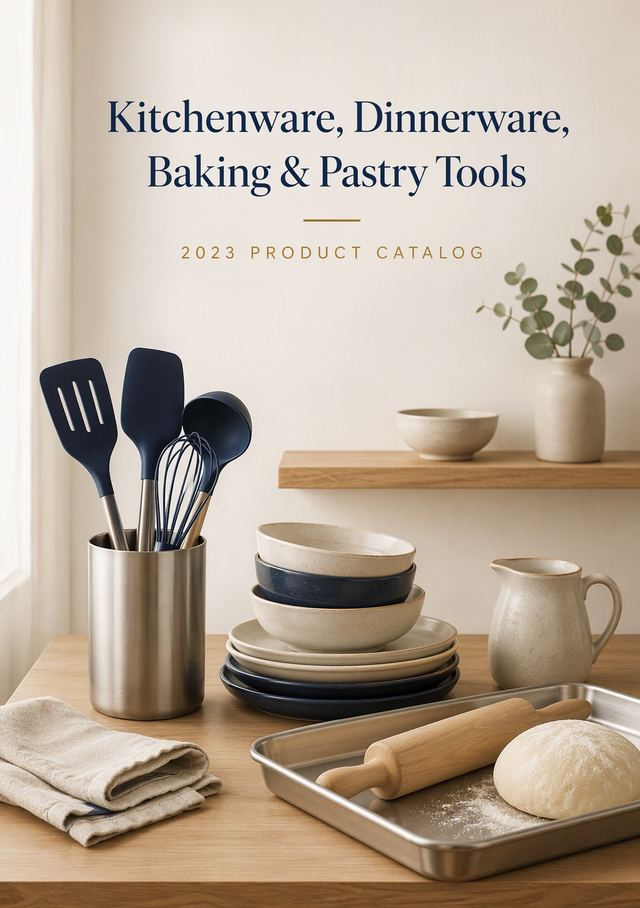
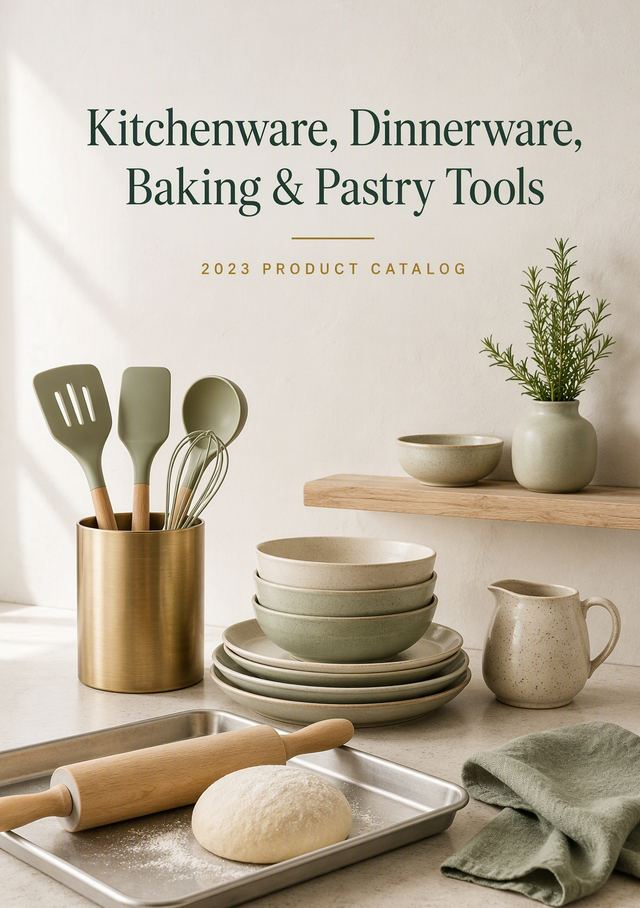
Green 2023 cover, no phantom last page, and a pass over the generated SEO tags
Cover: the 2023 catalog gets a second, green-toned A5 cover (640x908, ratio
0.7047) - same layout family as the 2026 one, sage/forest instead of navy.

Reader: the blank sheet added to complete a two-page spread was being added for
every odd page count, including one-page-per-view layouts. On the 107-page 2023
deck that showed up as an extra blank page at the end. It is now only added when
the layout really is a spread (not a landscape deck, not a phone).

Covers: gen_covers.py now also derives the 400px srcset thumbnail from whatever
cover is in place. They used to be made by hand, so 2023 shipped with a srcset
entry pointing at a 404 - and a failed candidate makes the card run
coverFallback() and download the whole PDF just to draw a thumbnail.

SEO, all found by auditing the 40 sitemap URLs:
  - the homepage carried three <h1> (catalog, Customize, About); the two hidden
    views are now <h2>, styled the same
  - titles ran to 77 characters on 15 pages and descriptions to 252 on all 40;
    both are now clipped on a word boundary (longest title now 55)
  - the categories hub had no og:image

diff --git a/index.html b/index.html
@@ -173,7 +173,7 @@ body { font-family: 'Segoe UI', system-ui, -apple-system, sans-serif; background
 
 /* ===== Customize View ===== */
 .customize-hero { text-align: center; padding: 60px 24px 48px; background: linear-gradient(180deg, #faf9f7 0%, #fff 100%); }
-.customize-hero h1 { font-size: 2.3rem; font-weight: 700; color: #1a1a2e; margin-bottom: 12px; }
+.customize-hero h1, .customize-hero h2 { font-size: 2.3rem; font-weight: 700; color: #1a1a2e; margin-bottom: 12px; }
 .customize-hero p { max-width: 700px; margin: 0 auto; color: #777; line-height: 1.7; font-size: 1rem; }
 .customize-section { max-width: 1100px; margin: 0 auto; padding: 48px 24px; }
 .customize-section h2 { font-size: 1.5rem; font-weight: 700; color: #1a1a2e; margin-bottom: 28px; text-align: center; }
@@ -199,7 +199,7 @@ body { font-family: 'Segoe UI', system-ui, -apple-system, sans-serif; background
 
 /* ===== About View ===== */
 .about-hero { text-align: center; padding: 60px 24px 48px; background: linear-gradient(180deg, #faf9f7 0%, #fff 100%); }
-.about-hero h1 { font-size: 2.3rem; font-weight: 700; color: #1a1a2e; margin-bottom: 12px; }
+.about-hero h1, .about-hero h2 { font-size: 2.3rem; font-weight: 700; color: #1a1a2e; margin-bottom: 12px; }
 .about-hero p { max-width: 720px; margin: 0 auto; color: #777; line-height: 1.7; }
 .about-section { max-width: 1000px; margin: 0 auto; padding: 48px 24px; }
 .about-section h2 { font-size: 1.4rem; font-weight: 700; color: #1a1a2e; margin-bottom: 22px; }
@@ -479,7 +479,7 @@ body { font-family: 'Segoe UI', system-ui, -apple-system, sans-serif; background
 <!-- ===== Customize View ===== -->
 <section id="viewCustomize" class="view">
   <div class="customize-hero">
-    <h1>Customization Service</h1>
+    <h2>Customization Service</h2>
     <p>Full OEM &amp; ODM solutions since 2010. From drawing-based customization to full customization — we turn your idea into shelf-ready products with certified quality.</p>
   </div>
   <!-- Services overview (first) -->
@@ -543,7 +543,7 @@ body { font-family: 'Segoe UI', system-ui, -apple-system, sans-serif; background
 <!-- ===== About View ===== -->
 <section id="viewAbout" class="view">
   <div class="about-hero">
-    <h1>About Yongli</h1>
+    <h2>About Yongli</h2>
     <p>Yongli is a BSCI &amp; ISO 9001 certified manufacturer specializing in OEM &amp; ODM for kitchen wares, promotional gifts and packaging boxes since 2010. Our vision: <strong>Make Globe Trade Easy</strong>.</p>
   </div>
 
@@ -1324,8 +1324,7 @@ async function openReader(ci,targetPage){
     // Lazy reader: instant placeholder shells, pages rendered on demand
     pageDivs=[];pageRendered={};pgBusy={};pgPadIdx=-1;
     for(let i=1;i<=totalPages;i++){const div=document.createElement('div');div.className='pg-shell';pageDivs.push(div)}
-    if(totalPages%2!==0){const bd=document.createElement('div');bd.className='pg-shell pg-pad';bd.dataset.rdy='1';pageDivs.push(bd);pgPadIdx=pageDivs.length-1}
-    const totalItems=pageDivs.length;
+
     // Paint page 1 with the still image the build already rendered, so a catalog
     // shows something the moment it opens instead of a blank sheet while the PDF
     // streams in. The ghost is dropped as soon as the real page is drawn.
@@ -1339,6 +1338,12 @@ async function openReader(ci,targetPage){
     const vp1=(await currentPdf.getPage(1)).getViewport({scale:1});
     const aspect=vp1.width/Math.max(vp1.height,1);
     const wide=aspect>=1.05;
+    // The blank padding sheet only exists to complete a two-page spread. One
+    // page per view (a landscape deck, or any phone) has nothing to complete,
+    // so adding it showed up as an extra blank page at the end of an odd-length
+    // catalog - reported 2026-10-12 against the 107-page 2023 deck.
+    if(!wide&&!isMobile&&totalPages%2!==0){const bd=document.createElement('div');bd.className='pg-shell pg-pad';bd.dataset.rdy='1';pageDivs.push(bd);pgPadIdx=pageDivs.length-1}
+    const totalItems=pageDivs.length;
     bookGeom={wide:wide,aspect:aspect,pageW:0};
     const bookW=wide?(isMobile?Math.max(280,bodyW-24):Math.min(Math.round(bodyW*0.74),1000)):maxPW;
     const bookH=wide?Math.round(bookW/aspect):Math.floor(maxPW/.72);

diff --git a/catalog/kitchen/silicone-food-storage-bag/index.html b/catalog/kitchen/silicone-food-storage-bag/index.html
@@ -3,13 +3,13 @@
 <head>
 <meta charset="UTF-8">
 <meta name="viewport" content="width=device-width, initial-scale=1.0">
-<title>Silicone Food Storage Bag — Wholesale Kitchen Gadgets Manufacturer | Yongli</title>
-<meta name="description" content="Silicone Food Storage Bag wholesale from Yongli — BSCI &amp; ISO 9001 certified OEM/ODM manufacturer of silicone and stainless steel kitchenware since 2010. Full range of 3 catalog pages, custom OEM/ODM welcome.">
+<title>Silicone Food Storage Bag — Kitchen Gadgets | Yongli</title>
+<meta name="description" content="Wholesale Silicone Food Storage Bag from Yongli — BSCI &amp; ISO 9001 certified OEM/ODM manufacturer since 2010. 3 catalogue pages of products, codes and">
 <link rel="canonical" href="https://oemkitchenware.com/catalog/kitchen/silicone-food-storage-bag/">
 <meta property="og:type" content="website">
 <meta property="og:site_name" content="Yongli Kitchenware">
 <meta property="og:title" content="Silicone Food Storage Bag — Yongli Kitchen Gadgets">
-<meta property="og:description" content="Silicone Food Storage Bag wholesale from Yongli — BSCI &amp; ISO 9001 certified OEM/ODM manufacturer of silicone and stainless steel kitchenware since 2010. Full range of 3 catalog pages, custom OEM/ODM welcome.">
+<meta property="og:description" content="Wholesale Silicone Food Storage Bag from Yongli — BSCI &amp; ISO 9001 certified OEM/ODM manufacturer since 2010. 3 catalogue pages of products, codes and">
 <meta property="og:url" content="https://oemkitchenware.com/catalog/kitchen/silicone-food-storage-bag/">
 <meta property="og:image" content="https://oemkitchenware.com/catalog/kitchen/silicone-food-storage-bag/cover.jpg">
 <meta name="twitter:card" content="summary_large_image">
@@ -103,7 +103,7 @@ ul.ticks li::before { content: ''; position: absolute; left: 2px; top: 16px; wid
 <main class="wrap">
   <nav class="crumbs" aria-label="Breadcrumb"><a href='/'>Home</a><a href='/catalog/'>Categories</a><a href='/catalog/kitchen/'>Kitchen Gadgets</a><span>Silicone Food Storage Bag</span></nav>
   <h1>Silicone Food Storage Bag — Kitchen Gadgets</h1>
-  <p class="lede">Silicone Food Storage Bag wholesale from Yongli — BSCI &amp; ISO 9001 certified OEM/ODM manufacturer of silicone and stainless steel kitchenware since 2010. Full range of 3 catalog pages, custom OEM/ODM welcome.</p>
+  <p class="lede">Wholesale Silicone Food Storage Bag from Yongli — BSCI &amp; ISO 9001 certified OEM/ODM manufacturer since 2010. 3 catalogue pages of products, codes and</p>
   <div class="cta-row">
     <a class="cta primary" href="/?catalog=kitchen&page=80">Open in 3D Flip Catalog (3 pages) &rarr;</a>
     <a class="cta whatsapp" href="https://wa.me/8613824296558?text=Hi, I am interested in Silicone Food Storage Bag. Please send me details." target="_blank" rel="noopener">WhatsApp Us</a>

diff --git a/catalog/kitchen/collapsible-travel-cup/index.html b/catalog/kitchen/collapsible-travel-cup/index.html
@@ -3,13 +3,13 @@
 <head>
 <meta charset="UTF-8">
 <meta name="viewport" content="width=device-width, initial-scale=1.0">
-<title>Collapsible Travel Cup — Wholesale Kitchen Gadgets Manufacturer | Yongli</title>
-<meta name="description" content="Collapsible Travel Cup wholesale from Yongli — BSCI &amp; ISO 9001 certified OEM/ODM manufacturer of silicone and stainless steel kitchenware since 2010. Full range of 3 catalog pages, custom OEM/ODM welcome.">
+<title>Collapsible Travel Cup — Kitchen Gadgets | Yongli</title>
+<meta name="description" content="Wholesale Collapsible Travel Cup from Yongli — BSCI &amp; ISO 9001 certified OEM/ODM manufacturer since 2010. 3 catalogue pages of products, codes and materials.">
 <link rel="canonical" href="https://oemkitchenware.com/catalog/kitchen/collapsible-travel-cup/">
 <meta property="og:type" content="website">
 <meta property="og:site_name" content="Yongli Kitchenware">
 <meta property="og:title" content="Collapsible Travel Cup — Yongli Kitchen Gadgets">
-<meta property="og:description" content="Collapsible Travel Cup wholesale from Yongli — BSCI &amp; ISO 9001 certified OEM/ODM manufacturer of silicone and stainless steel kitchenware since 2010. Full range of 3 catalog pages, custom OEM/ODM welcome.">
+<meta property="og:description" content="Wholesale Collapsible Travel Cup from Yongli — BSCI &amp; ISO 9001 certified OEM/ODM manufacturer since 2010. 3 catalogue pages of products, codes and materials.">
 <meta property="og:url" content="https://oemkitchenware.com/catalog/kitchen/collapsible-travel-cup/">
 <meta property="og:image" content="https://oemkitchenware.com/catalog/kitchen/collapsible-travel-cup/cover.jpg">
 <meta name="twitter:card" content="summary_large_image">
@@ -103,7 +103,7 @@ ul.ticks li::before { content: ''; position: absolute; left: 2px; top: 16px; wid
 <main class="wrap">
   <nav class="crumbs" aria-label="Breadcrumb"><a href='/'>Home</a><a href='/catalog/'>Categories</a><a href='/catalog/kitchen/'>Kitchen Gadgets</a><span>Collapsible Travel Cup</span></nav>
   <h1>Collapsible Travel Cup — Kitchen Gadgets</h1>
-  <p class="lede">Collapsible Travel Cup wholesale from Yongli — BSCI &amp; ISO 9001 certified OEM/ODM manufacturer of silicone and stainless steel kitchenware since 2010. Full range of 3 catalog pages, custom OEM/ODM welcome.</p>
+  <p class="lede">Wholesale Collapsible Travel Cup from Yongli — BSCI &amp; ISO 9001 certified OEM/ODM manufacturer since 2010. 3 catalogue pages of products, codes and materials.</p>
   <div class="cta-row">
     <a class="cta primary" href="/?catalog=kitchen&page=83">Open in 3D Flip Catalog (3 pages) &rarr;</a>
     <a class="cta whatsapp" href="https://wa.me/8613824296558?text=Hi, I am interested in Collapsible Travel Cup. Please send me details." target="_blank" rel="noopener">WhatsApp Us</a>

diff --git a/catalog/kitchen/food-storage-container/index.html b/catalog/kitchen/food-storage-container/index.html
@@ -3,13 +3,13 @@
 <head>
 <meta charset="UTF-8">
 <meta name="viewport" content="width=device-width, initial-scale=1.0">
-<title>Food Storage Container — Wholesale Kitchen Gadgets Manufacturer | Yongli</title>
-<meta name="description" content="Food Storage Container wholesale from Yongli — BSCI &amp; ISO 9001 certified OEM/ODM manufacturer of silicone and stainless steel kitchenware since 2010. Full range of 2 catalog pages, custom OEM/ODM welcome.">
+<title>Food Storage Container — Kitchen Gadgets | Yongli</title>
+<meta name="description" content="Wholesale Food Storage Container from Yongli — BSCI &amp; ISO 9001 certified OEM/ODM manufacturer since 2010. 2 catalogue pages of products, codes and materials.">
 <link rel="canonical" href="https://oemkitchenware.com/catalog/kitchen/food-storage-container/">
 <meta property="og:type" content="website">
 <meta property="og:site_name" content="Yongli Kitchenware">
 <meta property="og:title" content="Food Storage Container — Yongli Kitchen Gadgets">
-<meta property="og:description" content="Food Storage Container wholesale from Yongli — BSCI &amp; ISO 9001 certified OEM/ODM manufacturer of silicone and stainless steel kitchenware since 2010. Full range of 2 catalog pages, custom OEM/ODM welcome.">
+<meta property="og:description" content="Wholesale Food Storage Container from Yongli — BSCI &amp; ISO 9001 certified OEM/ODM manufacturer since 2010. 2 catalogue pages of products, codes and materials.">
 <meta property="og:url" content="https://oemkitchenware.com/catalog/kitchen/food-storage-container/">
 <meta property="og:image" content="https://oemkitchenware.com/catalog/kitchen/food-storage-container/cover.jpg">
 <meta name="twitter:card" content="summary_large_image">
@@ -103,7 +103,7 @@ ul.ticks li::before { content: ''; position: absolute; left: 2px; top: 16px; wid
 <main class="wrap">
   <nav class="crumbs" aria-label="Breadcrumb"><a href='/'>Home</a><a href='/catalog/'>Categories</a><a href='/catalog/kitchen/'>Kitchen Gadgets</a><span>Food Storage Container</span></nav>
   <h1>Food Storage Container — Kitchen Gadgets</h1>
-  <p class="lede">Food Storage Container wholesale from Yongli — BSCI &amp; ISO 9001 certified OEM/ODM manufacturer of silicone and stainless steel kitchenware since 2010. Full range of 2 catalog pages, custom OEM/ODM welcome.</p>
+  <p class="lede">Wholesale Food Storage Container from Yongli — BSCI &amp; ISO 9001 certified OEM/ODM manufacturer since 2010. 2 catalogue pages of products, codes and materials.</p>
   <div class="cta-row">
     <a class="cta primary" href="/?catalog=kitchen&page=69">Open in 3D Flip Catalog (2 pages) &rarr;</a>
     <a class="cta whatsapp" href="https://wa.me/8613824296558?text=Hi, I am interested in Food Storage Container. Please send me details." target="_blank" rel="noopener">WhatsApp Us</a>

diff --git a/catalog/kitchen/collapsible-food-storage/index.html b/catalog/kitchen/collapsible-food-storage/index.html
@@ -3,13 +3,13 @@
 <head>
 <meta charset="UTF-8">
 <meta name="viewport" content="width=device-width, initial-scale=1.0">
-<title>Collapsible Food Storage — Wholesale Kitchen Gadgets Manufacturer | Yongli</title>
-<meta name="description" content="Collapsible Food Storage wholesale from Yongli — BSCI &amp; ISO 9001 certified OEM/ODM manufacturer of silicone and stainless steel kitchenware since 2010. Full range of 3 catalog pages, custom OEM/ODM welcome.">
+<title>Collapsible Food Storage — Kitchen Gadgets | Yongli</title>
+<meta name="description" content="Wholesale Collapsible Food Storage from Yongli — BSCI &amp; ISO 9001 certified OEM/ODM manufacturer since 2010. 3 catalogue pages of products, codes and">
 <link rel="canonical" href="https://oemkitchenware.com/catalog/kitchen/collapsible-food-storage/">
 <meta property="og:type" content="website">
 <meta property="og:site_name" content="Yongli Kitchenware">
 <meta property="og:title" content="Collapsible Food Storage — Yongli Kitchen Gadgets">
-<meta property="og:description" content="Collapsible Food Storage wholesale from Yongli — BSCI &amp; ISO 9001 certified OEM/ODM manufacturer of silicone and stainless steel kitchenware since 2010. Full range of 3 catalog pages, custom OEM/ODM welcome.">
+<meta property="og:description" content="Wholesale Collapsible Food Storage from Yongli — BSCI &amp; ISO 9001 certified OEM/ODM manufacturer since 2010. 3 catalogue pages of products, codes and">
 <meta property="og:url" content="https://oemkitchenware.com/catalog/kitchen/collapsible-food-storage/">
 <meta property="og:image" content="https://oemkitchenware.com/catalog/kitchen/collapsible-food-storage/cover.jpg">
 <meta name="twitter:card" content="summary_large_image">
@@ -103,7 +103,7 @@ ul.ticks li::before { content: ''; position: absolute; left: 2px; top: 16px; wid
 <main class="wrap">
   <nav class="crumbs" aria-label="Breadcrumb"><a href='/'>Home</a><a href='/catalog/'>Categories</a><a href='/catalog/kitchen/'>Kitchen Gadgets</a><span>Collapsible Food Storage</span></nav>
   <h1>Collapsible Food Storage — Kitchen Gadgets</h1>
-  <p class="lede">Collapsible Food Storage wholesale from Yongli — BSCI &amp; ISO 9001 certified OEM/ODM manufacturer of silicone and stainless steel kitchenware since 2010. Full range of 3 catalog pages, custom OEM/ODM welcome.</p>
+  <p class="lede">Wholesale Collapsible Food Storage from Yongli — BSCI &amp; ISO 9001 certified OEM/ODM manufacturer since 2010. 3 catalogue pages of products, codes and</p>
   <div class="cta-row">
     <a class="cta primary" href="/?catalog=kitchen&page=66">Open in 3D Flip Catalog (3 pages) &rarr;</a>
     <a class="cta whatsapp" href="https://wa.me/8613824296558?text=Hi, I am interested in Collapsible Food Storage. Please send me details." target="_blank" rel="noopener">WhatsApp Us</a>

diff --git a/catalog/kitchen/sourdough-starter-kit/index.html b/catalog/kitchen/sourdough-starter-kit/index.html
@@ -3,13 +3,13 @@
 <head>
 <meta charset="UTF-8">
 <meta name="viewport" content="width=device-width, initial-scale=1.0">
-<title>Sourdough Starter Kit — Wholesale Kitchen Gadgets Manufacturer | Yongli</title>
-<meta name="description" content="Sourdough Starter Kit wholesale from Yongli — BSCI &amp; ISO 9001 certified OEM/ODM manufacturer of silicone and stainless steel kitchenware since 2010. Full range of 12 catalog pages, custom OEM/ODM welcome.">
+<title>Sourdough Starter Kit — Kitchen Gadgets | Yongli</title>
+<meta name="description" content="Wholesale Sourdough Starter Kit from Yongli — BSCI &amp; ISO 9001 certified OEM/ODM manufacturer since 2010. 12 catalogue pages of products, codes and materials.">
 <link rel="canonical" href="https://oemkitchenware.com/catalog/kitchen/sourdough-starter-kit/">
 <meta property="og:type" content="website">
 <meta property="og:site_name" content="Yongli Kitchenware">
 <meta property="og:title" content="Sourdough Starter Kit — Yongli Kitchen Gadgets">
-<meta property="og:description" content="Sourdough Starter Kit wholesale from Yongli — BSCI &amp; ISO 9001 certified OEM/ODM manufacturer of silicone and stainless steel kitchenware since 2010. Full range of 12 catalog pages, custom OEM/ODM welcome.">
+<meta property="og:description" content="Wholesale Sourdough Starter Kit from Yongli — BSCI &amp; ISO 9001 certified OEM/ODM manufacturer since 2010. 12 catalogue pages of products, codes and materials.">
 <meta property="og:url" content="https://oemkitchenware.com/catalog/kitchen/sourdough-starter-kit/">
 <meta property="og:image" content="https://oemkitchenware.com/catalog/kitchen/sourdough-starter-kit/cover.jpg">
 <meta name="twitter:card" content="summary_large_image">
@@ -103,7 +103,7 @@ ul.ticks li::before { content: ''; position: absolute; left: 2px; top: 16px; wid
 <main class="wrap">
   <nav class="crumbs" aria-label="Breadcrumb"><a href='/'>Home</a><a href='/catalog/'>Categories</a><a href='/catalog/kitchen/'>Kitchen Gadgets</a><span>Sourdough Starter Kit</span></nav>
   <h1>Sourdough Starter Kit — Kitchen Gadgets</h1>
-  <p class="lede">Sourdough Starter Kit wholesale from Yongli — BSCI &amp; ISO 9001 certified OEM/ODM manufacturer of silicone and stainless steel kitchenware since 2010. Full range of 12 catalog pages, custom OEM/ODM welcome.</p>
+  <p class="lede">Wholesale Sourdough Starter Kit from Yongli — BSCI &amp; ISO 9001 certified OEM/ODM manufacturer since 2010. 12 catalogue pages of products, codes and materials.</p>
   <div class="cta-row">
     <a class="cta primary" href="/?catalog=kitchen&page=144">Open in 3D Flip Catalog (12 pages) &rarr;</a>
     <a class="cta whatsapp" href="https://wa.me/8613824296558?text=Hi, I am interested in Sourdough Starter Kit. Please send me details." target="_blank" rel="noopener">WhatsApp Us</a>

diff --git a/catalog/kitchen/stainless-steel-tumbler/index.html b/catalog/kitchen/stainless-steel-tumbler/index.html
@@ -3,13 +3,13 @@
 <head>
 <meta charset="UTF-8">
 <meta name="viewport" content="width=device-width, initial-scale=1.0">
-<title>Stainless Steel Tumbler — Wholesale Kitchen Gadgets Manufacturer | Yongli</title>
-<meta name="description" content="Stainless Steel Tumbler wholesale from Yongli — BSCI &amp; ISO 9001 certified OEM/ODM manufacturer of silicone and stainless steel kitchenware since 2010. Full range of 13 catalog pages, custom OEM/ODM welcome.">
+<title>Stainless Steel Tumbler — Kitchen Gadgets | Yongli</title>
+<meta name="description" content="Wholesale Stainless Steel Tumbler from Yongli — BSCI &amp; ISO 9001 certified OEM/ODM manufacturer since 2010. 13 catalogue pages of products, codes and">
 <link rel="canonical" href="https://oemkitchenware.com/catalog/kitchen/stainless-steel-tumbler/">
 <meta property="og:type" content="website">
 <meta property="og:site_name" content="Yongli Kitchenware">
 <meta property="og:title" content="Stainless Steel Tumbler — Yongli Kitchen Gadgets">
-<meta property="og:description" content="Stainless Steel Tumbler wholesale from Yongli — BSCI &amp; ISO 9001 certified OEM/ODM manufacturer of silicone and stainless steel kitchenware since 2010. Full range of 13 catalog pages, custom OEM/ODM welcome.">
+<meta property="og:description" content="Wholesale Stainless Steel Tumbler from Yongli — BSCI &amp; ISO 9001 certified OEM/ODM manufacturer since 2010. 13 catalogue pages of products, codes and">
 <meta property="og:url" content="https://oemkitchenware.com/catalog/kitchen/stainless-steel-tumbler/">
 <meta property="og:image" content="https://oemkitchenware.com/catalog/kitchen/stainless-steel-tumbler/cover.jpg">
 <meta name="twitter:card" content="summary_large_image">
@@ -103,7 +103,7 @@ ul.ticks li::before { content: ''; position: absolute; left: 2px; top: 16px; wid
 <main class="wrap">
   <nav class="crumbs" aria-label="Breadcrumb"><a href='/'>Home</a><a href='/catalog/'>Categories</a><a href='/catalog/kitchen/'>Kitchen Gadgets</a><span>Stainless Steel Tumbler</span></nav>
   <h1>Stainless Steel Tumbler — Kitchen Gadgets</h1>
-  <p class="lede">Stainless Steel Tumbler wholesale from Yongli — BSCI &amp; ISO 9001 certified OEM/ODM manufacturer of silicone and stainless steel kitchenware since 2010. Full range of 13 catalog pages, custom OEM/ODM welcome.</p>
+  <p class="lede">Wholesale Stainless Steel Tumbler from Yongli — BSCI &amp; ISO 9001 certified OEM/ODM manufacturer since 2010. 13 catalogue pages of products, codes and</p>
   <div class="cta-row">
     <a class="cta primary" href="/?catalog=kitchen&page=86">Open in 3D Flip Catalog (13 pages) &rarr;</a>
     <a class="cta whatsapp" href="https://wa.me/8613824296558?text=Hi, I am interested in Stainless Steel Tumbler. Please send me details." target="_blank" rel="noopener">WhatsApp Us</a>

diff --git a/catalog/kitchen/bbq-grill-accessories/index.html b/catalog/kitchen/bbq-grill-accessories/index.html
@@ -3,13 +3,13 @@
 <head>
 <meta charset="UTF-8">
 <meta name="viewport" content="width=device-width, initial-scale=1.0">
-<title>BBQ Grill Accessories — Wholesale Kitchen Gadgets Manufacturer | Yongli</title>
-<meta name="description" content="BBQ Grill Accessories wholesale from Yongli — BSCI &amp; ISO 9001 certified OEM/ODM manufacturer of silicone and stainless steel kitchenware since 2010. Full range of 9 catalog pages, custom OEM/ODM welcome.">
+<title>BBQ Grill Accessories — Kitchen Gadgets | Yongli</title>
+<meta name="description" content="Wholesale BBQ Grill Accessories from Yongli — BSCI &amp; ISO 9001 certified OEM/ODM manufacturer since 2010. 9 catalogue pages of products, codes and materials.">
 <link rel="canonical" href="https://oemkitchenware.com/catalog/kitchen/bbq-grill-accessories/">
 <meta property="og:type" content="website">
 <meta property="og:site_name" content="Yongli Kitchenware">
 <meta property="og:title" content="BBQ Grill Accessories — Yongli Kitchen Gadgets">
-<meta property="og:description" content="BBQ Grill Accessories wholesale from Yongli — BSCI &amp; ISO 9001 certified OEM/ODM manufacturer of silicone and stainless steel kitchenware since 2010. Full range of 9 catalog pages, custom OEM/ODM welcome.">
+<meta property="og:description" content="Wholesale BBQ Grill Accessories from Yongli — BSCI &amp; ISO 9001 certified OEM/ODM manufacturer since 2010. 9 catalogue pages of products, codes and materials.">
 <meta property="og:url" content="https://oemkitchenware.com/catalog/kitchen/bbq-grill-accessories/">
 <meta property="og:image" content="https://oemkitchenware.com/catalog/kitchen/bbq-grill-accessories/cover.jpg">
 <meta name="twitter:card" content="summary_large_image">
@@ -103,7 +103,7 @@ ul.ticks li::before { content: ''; position: absolute; left: 2px; top: 16px; wid
 <main class="wrap">
   <nav class="crumbs" aria-label="Breadcrumb"><a href='/'>Home</a><a href='/catalog/'>Categories</a><a href='/catalog/kitchen/'>Kitchen Gadgets</a><span>BBQ Grill Accessories</span></nav>
   <h1>BBQ Grill Accessories — Kitchen Gadgets</h1>
-  <p class="lede">BBQ Grill Accessories wholesale from Yongli — BSCI &amp; ISO 9001 certified OEM/ODM manufacturer of silicone and stainless steel kitchenware since 2010. Full range of 9 catalog pages, custom OEM/ODM welcome.</p>
+  <p class="lede">Wholesale BBQ Grill Accessories from Yongli — BSCI &amp; ISO 9001 certified OEM/ODM manufacturer since 2010. 9 catalogue pages of products, codes and materials.</p>
   <div class="cta-row">
     <a class="cta primary" href="/?catalog=kitchen&page=99">Open in 3D Flip Catalog (9 pages) &rarr;</a>
     <a class="cta whatsapp" href="https://wa.me/8613824296558?text=Hi, I am interested in BBQ Grill Accessories. Please send me details." target="_blank" rel="noopener">WhatsApp Us</a>

diff --git a/catalog/ladies/silicone-cupping-therapy/index.html b/catalog/ladies/silicone-cupping-therapy/index.html
@@ -3,13 +3,13 @@
 <head>
 <meta charset="UTF-8">
 <meta name="viewport" content="width=device-width, initial-scale=1.0">
-<title>Silicone Cupping Therapy — Wholesale Ladies' Appliances Manufacturer | Yongli</title>
-<meta name="description" content="Silicone Cupping Therapy wholesale from Yongli — BSCI &amp; ISO 9001 certified OEM/ODM manufacturer of personal care and beauty devices since 2010. Full range of 2 catalog pages, custom OEM/ODM welcome.">
+<title>Silicone Cupping Therapy — Ladies' Appliances | Yongli</title>
+<meta name="description" content="Wholesale Silicone Cupping Therapy from Yongli — BSCI &amp; ISO 9001 certified OEM/ODM manufacturer since 2010. 2 catalogue pages of products, codes and">
 <link rel="canonical" href="https://oemkitchenware.com/catalog/ladies/silicone-cupping-therapy/">
 <meta property="og:type" content="website">
 <meta property="og:site_name" content="Yongli Kitchenware">
 <meta property="og:title" content="Silicone Cupping Therapy — Yongli Ladies' Appliances">
-<meta property="og:description" content="Silicone Cupping Therapy wholesale from Yongli — BSCI &amp; ISO 9001 certified OEM/ODM manufacturer of personal care and beauty devices since 2010. Full range of 2 catalog pages, custom OEM/ODM welcome.">
+<meta property="og:description" content="Wholesale Silicone Cupping Therapy from Yongli — BSCI &amp; ISO 9001 certified OEM/ODM manufacturer since 2010. 2 catalogue pages of products, codes and">
 <meta property="og:url" content="https://oemkitchenware.com/catalog/ladies/silicone-cupping-therapy/">
 <meta property="og:image" content="https://oemkitchenware.com/catalog/ladies/silicone-cupping-therapy/cover.jpg">
 <meta name="twitter:card" content="summary_large_image">
@@ -103,7 +103,7 @@ ul.ticks li::before { content: ''; position: absolute; left: 2px; top: 16px; wid
 <main class="wrap">
   <nav class="crumbs" aria-label="Breadcrumb"><a href='/'>Home</a><a href='/catalog/'>Categories</a><a href='/catalog/ladies/'>Ladies' Appliances</a><span>Silicone Cupping Therapy</span></nav>
   <h1>Silicone Cupping Therapy — Ladies' Appliances</h1>
-  <p class="lede">Silicone Cupping Therapy wholesale from Yongli — BSCI &amp; ISO 9001 certified OEM/ODM manufacturer of personal care and beauty devices since 2010. Full range of 2 catalog pages, custom OEM/ODM welcome.</p>
+  <p class="lede">Wholesale Silicone Cupping Therapy from Yongli — BSCI &amp; ISO 9001 certified OEM/ODM manufacturer since 2010. 2 catalogue pages of products, codes and</p>
   <div class="cta-row">
     <a class="cta primary" href="/?catalog=ladies&page=3">Open in 3D Flip Catalog (2 pages) &rarr;</a>
     <a class="cta whatsapp" href="https://wa.me/8613824296558?text=Hi, I am interested in Silicone Cupping Therapy. Please send me details." target="_blank" rel="noopener">WhatsApp Us</a>

diff --git a/catalog/kitchen/collapsible-strainer/index.html b/catalog/kitchen/collapsible-strainer/index.html
@@ -3,13 +3,13 @@
 <head>
 <meta charset="UTF-8">
 <meta name="viewport" content="width=device-width, initial-scale=1.0">
-<title>Collapsible Strainer — Wholesale Kitchen Gadgets Manufacturer | Yongli</title>
-<meta name="description" content="Collapsible Strainer wholesale from Yongli — BSCI &amp; ISO 9001 certified OEM/ODM manufacturer of silicone and stainless steel kitchenware since 2010. Full range of 5 catalog pages, custom OEM/ODM welcome.">
+<title>Collapsible Strainer — Kitchen Gadgets | Yongli</title>
+<meta name="description" content="Wholesale Collapsible Strainer from Yongli — BSCI &amp; ISO 9001 certified OEM/ODM manufacturer since 2010. 5 catalogue pages of products, codes and materials.">
 <link rel="canonical" href="https://oemkitchenware.com/catalog/kitchen/collapsible-strainer/">
 <meta property="og:type" content="website">
 <meta property="og:site_name" content="Yongli Kitchenware">
 <meta property="og:title" content="Collapsible Strainer — Yongli Kitchen Gadgets">
-<meta property="og:description" content="Collapsible Strainer wholesale from Yongli — BSCI &amp; ISO 9001 certified OEM/ODM manufacturer of silicone and stainless steel kitchenware since 2010. Full range of 5 catalog pages, custom OEM/ODM welcome.">
+<meta property="og:description" content="Wholesale Collapsible Strainer from Yongli — BSCI &amp; ISO 9001 certified OEM/ODM manufacturer since 2010. 5 catalogue pages of products, codes and materials.">
 <meta property="og:url" content="https://oemkitchenware.com/catalog/kitchen/collapsible-strainer/">
 <meta property="og:image" content="https://oemkitchenware.com/catalog/kitchen/collapsible-strainer/cover.jpg">
 <meta name="twitter:card" content="summary_large_image">
@@ -103,7 +103,7 @@ ul.ticks li::before { content: ''; position: absolute; left: 2px; top: 16px; wid
 <main class="wrap">
   <nav class="crumbs" aria-label="Breadcrumb"><a href='/'>Home</a><a href='/catalog/'>Categories</a><a href='/catalog/kitchen/'>Kitchen Gadgets</a><span>Collapsible Strainer</span></nav>
   <h1>Collapsible Strainer — Kitchen Gadgets</h1>
-  <p class="lede">Collapsible Strainer wholesale from Yongli — BSCI &amp; ISO 9001 certified OEM/ODM manufacturer of silicone and stainless steel kitchenware since 2010. Full range of 5 catalog pages, custom OEM/ODM welcome.</p>
+  <p class="lede">Wholesale Collapsible Strainer from Yongli — BSCI &amp; ISO 9001 certified OEM/ODM manufacturer since 2010. 5 catalogue pages of products, codes and materials.</p>
   <div class="cta-row">
     <a class="cta primary" href="/?catalog=kitchen&page=61">Open in 3D Flip Catalog (5 pages) &rarr;</a>
     <a class="cta whatsapp" href="https://wa.me/8613824296558?text=Hi, I am interested in Collapsible Strainer. Please send me details." target="_blank" rel="noopener">WhatsApp Us</a>

diff --git a/catalog/kitchen/silicone-gummy-mold/index.html b/catalog/kitchen/silicone-gummy-mold/index.html
@@ -3,13 +3,13 @@
 <head>
 <meta charset="UTF-8">
 <meta name="viewport" content="width=device-width, initial-scale=1.0">
-<title>Silicone Gummy Mold — Wholesale Kitchen Gadgets Manufacturer | Yongli</title>
-<meta name="description" content="Silicone Gummy Mold wholesale from Yongli — BSCI &amp; ISO 9001 certified OEM/ODM manufacturer of silicone and stainless steel kitchenware since 2010. Full range of 8 catalog pages, custom OEM/ODM welcome.">
+<title>Silicone Gummy Mold — Kitchen Gadgets | Yongli</title>
+<meta name="description" content="Wholesale Silicone Gummy Mold from Yongli — BSCI &amp; ISO 9001 certified OEM/ODM manufacturer since 2010. 8 catalogue pages of products, codes and materials.">
 <link rel="canonical" href="https://oemkitchenware.com/catalog/kitchen/silicone-gummy-mold/">
 <meta property="og:type" content="website">
 <meta property="og:site_name" content="Yongli Kitchenware">
 <meta property="og:title" content="Silicone Gummy Mold — Yongli Kitchen Gadgets">
-<meta property="og:description" content="Silicone Gummy Mold wholesale from Yongli — BSCI &amp; ISO 9001 certified OEM/ODM manufacturer of silicone and stainless steel kitchenware since 2010. Full range of 8 catalog pages, custom OEM/ODM welcome.">
+<meta property="og:description" content="Wholesale Silicone Gummy Mold from Yongli — BSCI &amp; ISO 9001 certified OEM/ODM manufacturer since 2010. 8 catalogue pages of products, codes and materials.">
 <meta property="og:url" content="https://oemkitchenware.com/catalog/kitchen/silicone-gummy-mold/">
 <meta property="og:image" content="https://oemkitchenware.com/catalog/kitchen/silicone-gummy-mold/cover.jpg">
 <meta name="twitter:card" content="summary_large_image">
@@ -103,7 +103,7 @@ ul.ticks li::before { content: ''; position: absolute; left: 2px; top: 16px; wid
 <main class="wrap">
   <nav class="crumbs" aria-label="Breadcrumb"><a href='/'>Home</a><a href='/catalog/'>Categories</a><a href='/catalog/kitchen/'>Kitchen Gadgets</a><span>Silicone Gummy Mold</span></nav>
   <h1>Silicone Gummy Mold — Kitchen Gadgets</h1>
-  <p class="lede">Silicone Gummy Mold wholesale from Yongli — BSCI &amp; ISO 9001 certified OEM/ODM manufacturer of silicone and stainless steel kitchenware since 2010. Full range of 8 catalog pages, custom OEM/ODM welcome.</p>
+  <p class="lede">Wholesale Silicone Gummy Mold from Yongli — BSCI &amp; ISO 9001 certified OEM/ODM manufacturer since 2010. 8 catalogue pages of products, codes and materials.</p>
   <div class="cta-row">
     <a class="cta primary" href="/?catalog=kitchen&page=156">Open in 3D Flip Catalog (8 pages) &rarr;</a>
     <a class="cta whatsapp" href="https://wa.me/8613824296558?text=Hi, I am interested in Silicone Gummy Mold. Please send me details." target="_blank" rel="noopener">WhatsApp Us</a>

diff --git a/catalog/kitchen/silicone-ice-tray/index.html b/catalog/kitchen/silicone-ice-tray/index.html
@@ -3,13 +3,13 @@
 <head>
 <meta charset="UTF-8">
 <meta name="viewport" content="width=device-width, initial-scale=1.0">
-<title>Silicone Ice Tray — Wholesale Kitchen Gadgets Manufacturer | Yongli</title>
-<meta name="description" content="Silicone Ice Tray wholesale from Yongli — BSCI &amp; ISO 9001 certified OEM/ODM manufacturer of silicone and stainless steel kitchenware since 2010. Full range of 12 catalog pages, custom OEM/ODM welcome.">
+<title>Silicone Ice Tray — Kitchen Gadgets | Yongli</title>
+<meta name="description" content="Wholesale Silicone Ice Tray from Yongli — BSCI &amp; ISO 9001 certified OEM/ODM manufacturer since 2010. 12 catalogue pages of products, codes and materials.">
 <link rel="canonical" href="https://oemkitchenware.com/catalog/kitchen/silicone-ice-tray/">
 <meta property="og:type" content="website">
 <meta property="og:site_name" content="Yongli Kitchenware">
 <meta property="og:title" content="Silicone Ice Tray — Yongli Kitchen Gadgets">
-<meta property="og:description" content="Silicone Ice Tray wholesale from Yongli — BSCI &amp; ISO 9001 certified OEM/ODM manufacturer of silicone and stainless steel kitchenware since 2010. Full range of 12 catalog pages, custom OEM/ODM welcome.">
+<meta property="og:description" content="Wholesale Silicone Ice Tray from Yongli — BSCI &amp; ISO 9001 certified OEM/ODM manufacturer since 2010. 12 catalogue pages of products, codes and materials.">
 <meta property="og:url" content="https://oemkitchenware.com/catalog/kitchen/silicone-ice-tray/">
 <meta property="og:image" content="https://oemkitchenware.com/catalog/kitchen/silicone-ice-tray/cover.jpg">
 <meta name="twitter:card" content="summary_large_image">
@@ -103,7 +103,7 @@ ul.ticks li::before { content: ''; position: absolute; left: 2px; top: 16px; wid
 <main class="wrap">
   <nav class="crumbs" aria-label="Breadcrumb"><a href='/'>Home</a><a href='/catalog/'>Categories</a><a href='/catalog/kitchen/'>Kitchen Gadgets</a><span>Silicone Ice Tray</span></nav>
   <h1>Silicone Ice Tray — Kitchen Gadgets</h1>
-  <p class="lede">Silicone Ice Tray wholesale from Yongli — BSCI &amp; ISO 9001 certified OEM/ODM manufacturer of silicone and stainless steel kitchenware since 2010. Full range of 12 catalog pages, custom OEM/ODM welcome.</p>
+  <p class="lede">Wholesale Silicone Ice Tray from Yongli — BSCI &amp; ISO 9001 certified OEM/ODM manufacturer since 2010. 12 catalogue pages of products, codes and materials.</p>
   <div class="cta-row">
     <a class="cta primary" href="/?catalog=kitchen&page=118">Open in 3D Flip Catalog (12 pages) &rarr;</a>
     <a class="cta whatsapp" href="https://wa.me/8613824296558?text=Hi, I am interested in Silicone Ice Tray. Please send me details." target="_blank" rel="noopener">WhatsApp Us</a>
